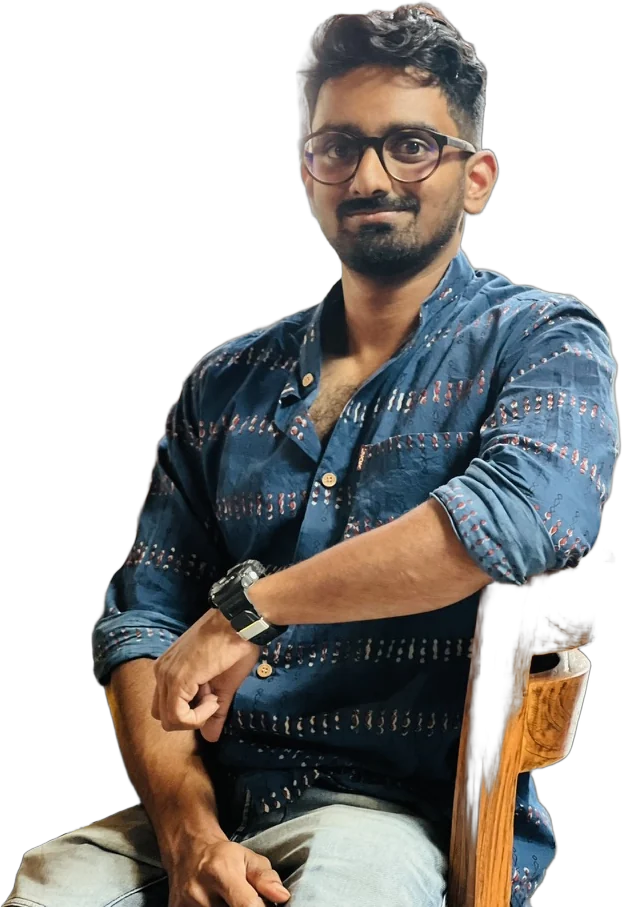
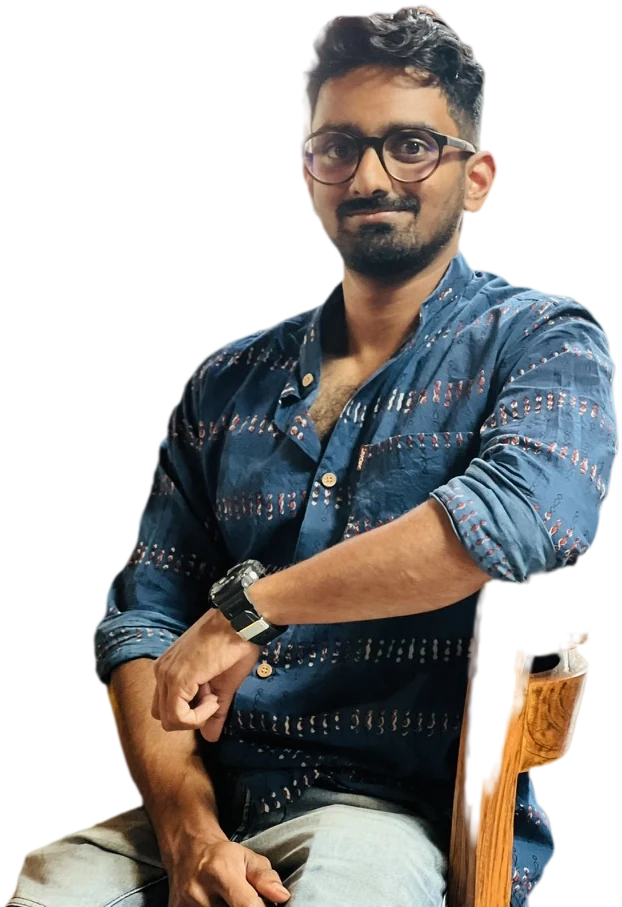
Clean up portrait cutout edge and cap its size
Pull the mask in ~2px and recolour edge pixels from the interior to remove
the light halo left by the bright background. Size the photo from both
viewport height and width so it is never upscaled far past its 907px source.

Claude-Session: https://claude.ai/code/session_01W21aVwEWgz9iLrUgV7DESF

diff --git a/index.html b/index.html
@@ -63,7 +63,7 @@
 
     .photo {
       position: absolute; left: 50%; bottom: 0; transform: translateX(-50%);
-      height: 86%; width: auto; display: block;
+      height: min(72%, 44vw); width: auto; display: block;
       filter: grayscale(1) contrast(1.2) brightness(1.02);
     }
     .name {
